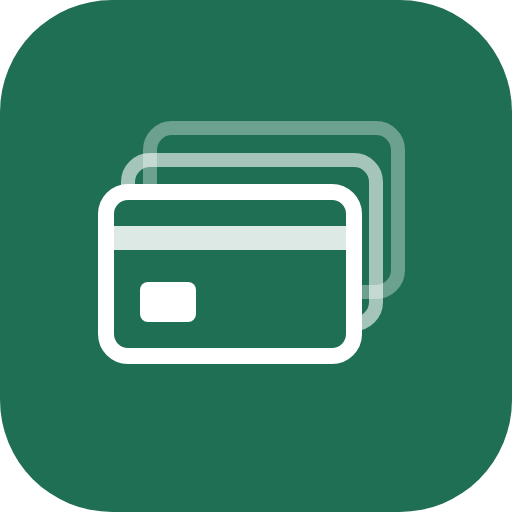
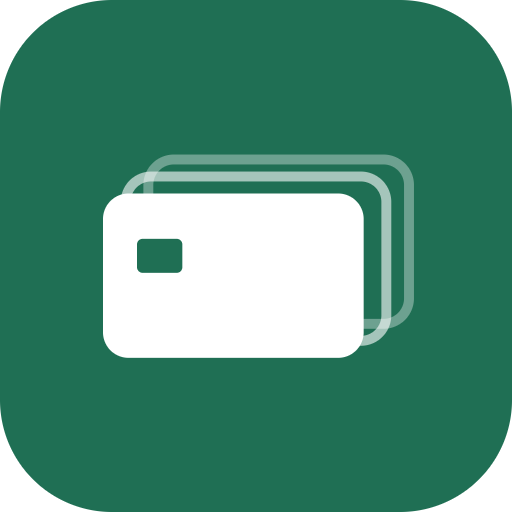
New mark: the card stack with a solid front card
Used on earnrate.dev, the cheat sheet and its image, the favicon, the
share image and the plugin and Desktop icons.

Changed region(s): [[0.1875, 0.2188, 0.8125, 0.7188]]

diff --git a/site/app/sheet-image.ts b/site/app/sheet-image.ts
@@ -30,36 +30,40 @@ function fit(ctx: CanvasRenderingContext2D, text: string, width: number) {
   return `${out.trimEnd()}…`
 }
 
-// The stacked-cards mark (Logo.tsx), in its 120 × 80 box at (x, y).
+// The stacked-cards mark (Logo.tsx), in its 120 × 80 box at (x, y): stroke
+// and fill in the current stroke color, the chip in `chip`.
 function drawLogo(
   ctx: CanvasRenderingContext2D,
   x: number,
   y: number,
   scale: number,
+  chip: string,
 ) {
-  const card = (cx: number, cy: number, w: number, h: number, r: number) => {
+  const box = (bx: number, by: number, w: number, h: number, r: number) => {
     ctx.beginPath()
     ctx.roundRect(
-      x + cx * scale,
-      y + cy * scale,
+      x + bx * scale,
+      y + by * scale,
       w * scale,
       h * scale,
       r * scale,
     )
-    ctx.stroke()
   }
   ctx.save()
-  ctx.lineWidth = scale
-  ctx.globalAlpha = 0.25
-  card(22, 6, 92, 58, 9)
-  ctx.globalAlpha = 0.45
-  card(14, 12, 92, 58, 9)
-  ctx.globalAlpha = 1
   ctx.lineWidth = 2 * scale
-  ctx.setLineDash([6 * scale, 5 * scale])
-  card(6, 18, 92, 58, 9)
-  ctx.setLineDash([])
-  card(18, 34, 16, 12, 2)
+  ctx.globalAlpha = 0.3
+  box(22, 6, 92, 58, 9)
+  ctx.stroke()
+  ctx.globalAlpha = 0.55
+  box(14, 12, 92, 58, 9)
+  ctx.stroke()
+  ctx.globalAlpha = 1
+  ctx.fillStyle = ctx.strokeStyle
+  box(6, 18, 92, 58, 9)
+  ctx.fill()
+  ctx.fillStyle = chip
+  box(18, 34, 16, 12, 2)
+  ctx.fill()
   ctx.restore()
 }
 
@@ -91,7 +95,7 @@ export function cheatSheetImage(
   ctx.fillText(`${sheet.quarter} · the card to use for each purchase`, PAD, 240)
   ctx.globalAlpha = 1
   ctx.strokeStyle = paper
-  drawLogo(ctx, W - PAD - 205, 52, 1.8)
+  drawLogo(ctx, W - PAD - 205, 52, 1.8, accent)
 
   const top = 330
   const bottom = H - 190

diff --git a/site/app/Logo.tsx b/site/app/Logo.tsx
@@ -1,6 +1,6 @@
-// The stacked-cards mark from the top of earnrate.dev. sheet-image.ts draws
-// the same shapes.
-export function Logo({ class: cls }: { class?: string }) {
+// The stacked-cards mark from the top of earnrate.dev; sheet-image.ts draws
+// the same shapes. The chip is cut out in the color behind the mark.
+export function Logo({ class: cls, chip }: { class?: string; chip: string }) {
   return (
     <svg
       class={cls}
@@ -8,19 +8,28 @@ export function Logo({ class: cls }: { class?: string }) {
       aria-hidden="true"
       fill="none"
       stroke="currentColor"
+      stroke-width="2"
     >
-      <rect x="22" y="6" width="92" height="58" rx="9" opacity="0.25" />
-      <rect x="14" y="12" width="92" height="58" rx="9" opacity="0.45" />
+      <rect x="22" y="6" width="92" height="58" rx="9" opacity="0.3" />
+      <rect x="14" y="12" width="92" height="58" rx="9" opacity="0.55" />
       <rect
         x="6"
         y="18"
         width="92"
         height="58"
         rx="9"
-        stroke-width="2"
-        stroke-dasharray="6 5"
+        fill="currentColor"
+        stroke="none"
       />
-      <rect x="18" y="34" width="16" height="12" rx="2" stroke-width="2" />
+      <rect
+        x="18"
+        y="34"
+        width="16"
+        height="12"
+        rx="2"
+        fill={chip}
+        stroke="none"
+      />
     </svg>
   )
 }

diff --git a/site/index.html b/site/index.html
@@ -272,17 +272,18 @@
             aria-hidden="true"
             fill="none"
             stroke="currentColor"
+            stroke-width="2"
           >
-            <rect x="22" y="6" width="92" height="58" rx="9" opacity="0.25" />
-            <rect x="14" y="12" width="92" height="58" rx="9" opacity="0.45" />
+            <rect x="22" y="6" width="92" height="58" rx="9" opacity="0.3" />
+            <rect x="14" y="12" width="92" height="58" rx="9" opacity="0.55" />
             <rect
               x="6"
               y="18"
               width="92"
               height="58"
               rx="9"
-              stroke-width="2"
-              stroke-dasharray="6 5"
+              fill="currentColor"
+              stroke="none"
             />
             <rect
               x="18"
@@ -290,7 +291,8 @@
               width="16"
               height="12"
               rx="2"
-              stroke-width="2"
+              fill="var(--bg)"
+              stroke="none"
             />
           </svg>
         </div>

diff --git a/site/app/MyWallet.tsx b/site/app/MyWallet.tsx
@@ -182,7 +182,7 @@ function CheatSheet({ wallet }: { wallet: Wallet }) {
               <path d="M12 4v11M7.5 10.5 12 15l4.5-4.5M5 19.5h14" />
             </svg>
           </button>
-          <Logo class="sheet-logo" />
+          <Logo class="sheet-logo" chip="var(--accent)" />
         </div>
       </div>
       <ol class="sheet-rows">
